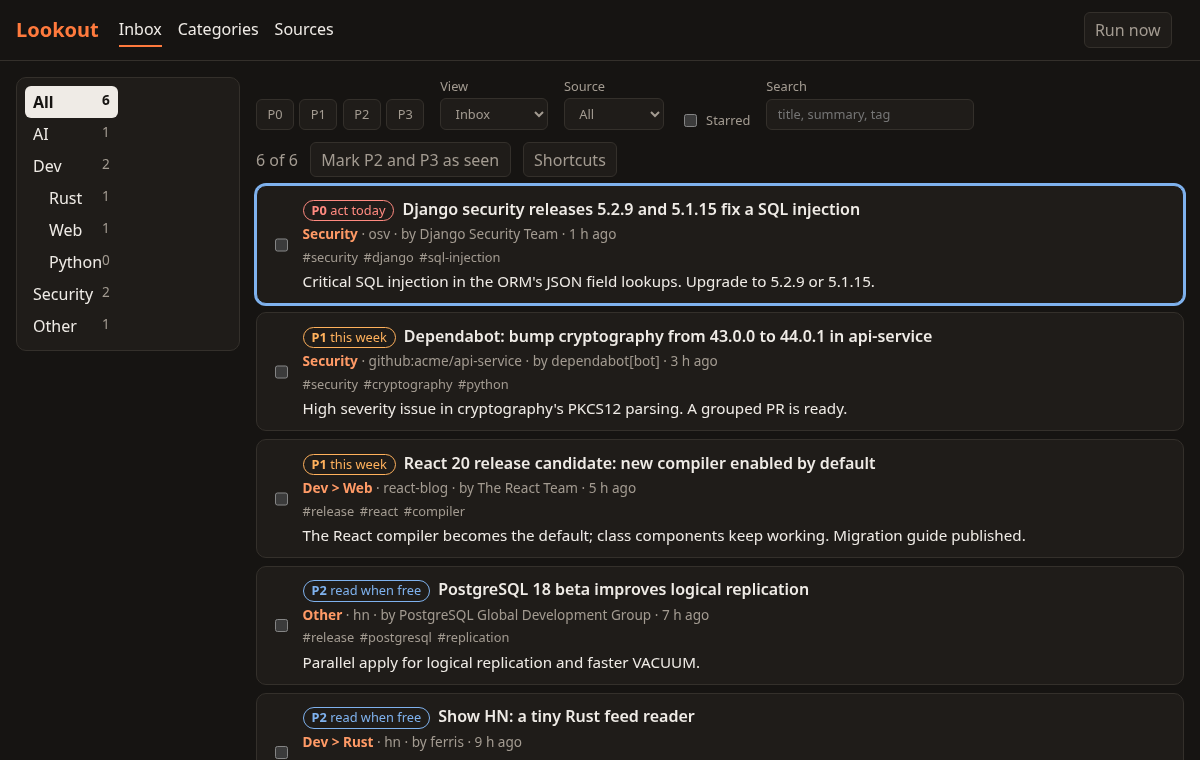
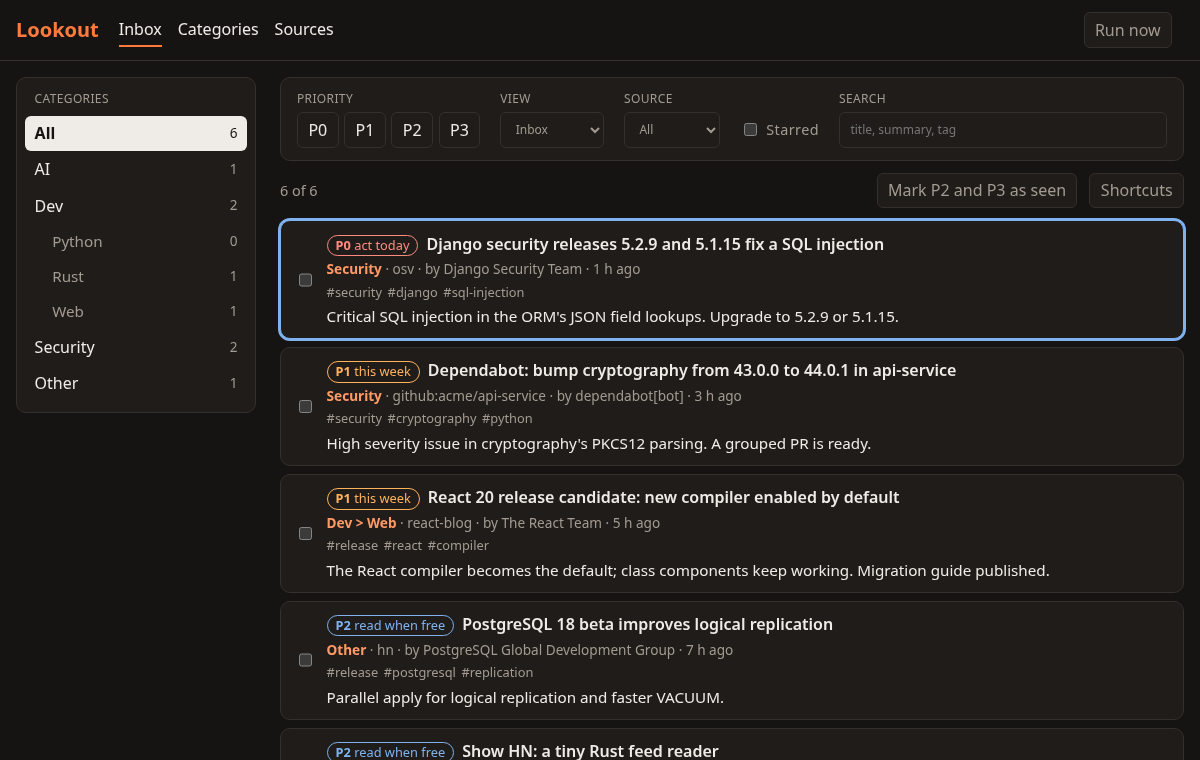
fix(categories): create missing parents and revamp the inbox layout
Moving into a category the dashboard showed but the server did not have failed with
"no such source or channel". The dashboard no longer invents rows; the server creates
the parents of any stored path when it opens, and the move refuses unknown parents.
The fake backend used by the UI tests now refuses unknown categories like the server,
and a test covers the refusal being shown.

The inbox layout is rebuilt: a sticky category sidebar with aligned counts and indented
children, one structured filter toolbar with captions and equal control heights,
actions aligned to the right, and navigation styles that no longer leak into the tree.

diff --git a/frontend/src/styles.css b/frontend/src/styles.css
@@ -55,23 +55,23 @@ h1 {
   font-size: 1.25rem;
   color: var(--accent);
 }
-nav {
+header nav {
   display: flex;
   gap: 1rem;
   flex: 1;
 }
-nav a {
+header nav a {
   color: var(--fg);
   text-decoration: none;
   padding: 0.25rem 0;
   border-bottom: 2px solid transparent;
 }
-nav a[aria-current="page"] {
+header nav a[aria-current="page"] {
   border-bottom-color: var(--accent);
 }
 main {
   padding: 1rem;
-  max-width: 1200px;
+  max-width: 1500px;
   margin: 0 auto;
 }
 button,
@@ -104,25 +104,55 @@ button:disabled {
 .filters {
   display: flex;
   flex-wrap: wrap;
-  gap: 0.75rem 1rem;
+  gap: 0.75rem 1.25rem;
   align-items: end;
+  background: var(--card);
+  border: 1px solid var(--line);
+  border-radius: 10px;
+  padding: 0.75rem 1rem;
   margin-bottom: 0.75rem;
 }
-.filters label {
+.filters label,
+.filters .field {
   display: flex;
   flex-direction: column;
-  font-size: 0.8rem;
+  gap: 0.25rem;
+}
+.filters .caption,
+.filters label {
+  font-size: 0.75rem;
+  letter-spacing: 0.03em;
+  text-transform: uppercase;
   color: var(--muted);
-  gap: 0.15rem;
+}
+.filters label:has(input[type="search"]) {
+  flex: 1 1 14rem;
+}
+.filters select,
+.filters input[type="search"],
+.filters .chip {
+  height: 2.25rem;
+  text-transform: none;
+  letter-spacing: normal;
+}
+.filters input[type="search"] {
+  width: 100%;
+  text-transform: none;
 }
 .filters label.check {
   flex-direction: row;
   align-items: center;
   gap: 0.4rem;
+  height: 2.25rem;
+  text-transform: none;
+  font-size: 0.9rem;
 }
 .chips {
   display: flex;
   gap: 0.35rem;
+}
+.chip {
+  min-width: 2.5rem;
 }
 .chip[aria-pressed="true"] {
   background: var(--fg);
@@ -136,7 +166,11 @@ button:disabled {
   gap: 0.75rem;
   align-items: center;
   color: var(--muted);
-  margin-bottom: 0.5rem;
+  margin-bottom: 0.75rem;
+}
+.toolbar span {
+  margin-right: auto;
+  font-size: 0.9rem;
 }
 .bulk {
   background: var(--card);
@@ -471,30 +505,52 @@ td button + button {
 }
 @media (min-width: 900px) {
   .with-tree {
-    grid-template-columns: 14rem minmax(0, 1fr);
+    grid-template-columns: 15rem minmax(0, 1fr);
+    gap: 1.5rem;
     align-items: start;
+  }
+  .tree {
+    position: sticky;
+    top: 1rem;
+    max-height: calc(100vh - 2rem);
+    overflow-y: auto;
   }
 }
 .tree {
   background: var(--card);
   border: 1px solid var(--line);
   border-radius: 10px;
-  padding: 0.5rem;
+  padding: 0.5rem 0.5rem 0.75rem;
+  display: block;
+}
+.tree-title {
+  margin: 0.25rem 0.6rem 0.5rem;
+  font-size: 0.75rem;
+  letter-spacing: 0.03em;
+  text-transform: uppercase;
+  color: var(--muted);
 }
 .tree ul {
   list-style: none;
   margin: 0;
   padding: 0;
+  display: grid;
+  gap: 1px;
 }
 .tree button {
-  display: flex;
-  justify-content: space-between;
+  display: grid;
+  grid-template-columns: minmax(0, 1fr) 2.5rem;
+  align-items: center;
   width: 100%;
   border: 0;
   background: none;
   text-align: left;
-  padding: 0.25rem 0.5rem;
+  padding: 0.35rem 0.6rem;
   border-radius: 6px;
+}
+.tree button[data-depth]:not([data-depth="0"]) {
+  font-size: 0.95rem;
+  color: var(--muted);
 }
 .tree button:hover {
   background: var(--bg);
@@ -505,13 +561,16 @@ td button + button {
   font-weight: 700;
 }
 .tree .count {
+  text-align: right;
   color: var(--muted);
   font-size: 0.85rem;
+  font-weight: 400;
+  font-variant-numeric: tabular-nums;
 }
 .tree button[aria-current="true"] .count {
   color: var(--bg);
 }
-.chips {
+.tags {
   display: flex;
   flex-wrap: wrap;
   gap: 0.35rem;

diff --git a/frontend/src/categories.ts b/frontend/src/categories.ts
@@ -18,22 +18,9 @@ export interface CategoryRow {
 const within = (path: string, ancestor: string) => path === ancestor || path.startsWith(ancestor + SEP);
 
 /** The categories as the rows of a tree, parents before their children, Other last, with totals that include children. */
-export function categoryRows(declared: Channel[]): CategoryRow[] {
-  // A path whose parent is missing (an older server stored it flat) still shows under its parent.
-  const known = new Set(declared.map((c) => c.name));
-  const implied: Channel[] = [];
-  for (const channel of declared) {
-    const parts = channel.name.split(SEP);
-    for (let n = 1; n < parts.length; n++) {
-      const path = parts.slice(0, n).join(SEP);
-      if (!known.has(path)) {
-        known.add(path);
-        implied.push({ name: path, description: "", items: 0, sources: [] });
-      }
-    }
-  }
-  const channels = [...declared, ...implied].sort((a, b) => Number(a.name > b.name) - Number(a.name < b.name));
-  const ordered = [...channels].sort((a, b) => Number(a.name === "Other") - Number(b.name === "Other"));
+export function categoryRows(channels: Channel[]): CategoryRow[] {
+  const byPath = (a: Channel, b: Channel) => Number(a.name > b.name) - Number(a.name < b.name);
+  const ordered = [...channels].sort(byPath).sort((a, b) => Number(a.name === "Other") - Number(b.name === "Other"));
   return ordered.map((channel) => {
     const parts = channel.name.split(SEP);
     return {

diff --git a/frontend/src/Manage.test.tsx b/frontend/src/Manage.test.tsx
@@ -350,13 +350,14 @@ describe("categories", () => {
     expect(calls(backend, "PATCH", "/api/channels/AI")[0]?.body).toEqual({ description: "Models and agents" });
   });
 
-  it("shows the parent of a path the server stored without one", async () => {
+  it("shows why a move was refused and keeps the tree as the server has it", async () => {
     const backend = world();
-    backend.taxonomy.channels = [{ name: "Dev > Web", description: "", items: 2, sources: [] }];
-    mount(backend, "/categories");
-    const dev = (await screen.findByRole("button", { name: "Edit Dev" })).closest("li") as HTMLElement;
-    expect(dev).toHaveTextContent("2 items");
-    expect(screen.getByRole("button", { name: "Edit Dev > Web" })).toBeInTheDocument();
+    const { user } = mount(backend, "/categories");
+    await user.click(await screen.findByRole("button", { name: "Move AI" }));
+    backend.failWith = { status: 404, detail: "no such source or channel: Dev" };
+    await user.click(within(screen.getByRole("group", { name: "Move AI" })).getByRole("button", { name: "Move here" }));
+    expect(await screen.findByRole("alert")).toHaveTextContent("no such source or channel: Dev");
+    expect(screen.getByRole("button", { name: "Edit AI" })).toBeInTheDocument();
   });
 
   it("offers no move when there is nowhere to go", async () => {

diff --git a/frontend/src/components/FilterBar.tsx b/frontend/src/components/FilterBar.tsx
@@ -31,20 +31,25 @@ export function FilterBar({ filters, sources, onChange }: Props) {
         e.preventDefault();
       }}
     >
-      <div className="chips" role="group" aria-label="Priority">
-        {PRIORITIES.map((priority) => (
-          <button
-            key={priority}
-            type="button"
-            className={`chip ${priority.toLowerCase()}`}
-            aria-pressed={filters.priorities.includes(priority)}
-            onClick={() => {
-              togglePriority(priority);
-            }}
-          >
-            {priority}
-          </button>
-        ))}
+      <div className="field">
+        <span className="caption" aria-hidden="true">
+          Priority
+        </span>
+        <div className="chips" role="group" aria-label="Priority">
+          {PRIORITIES.map((priority) => (
+            <button
+              key={priority}
+              type="button"
+              className={`chip ${priority.toLowerCase()}`}
+              aria-pressed={filters.priorities.includes(priority)}
+              onClick={() => {
+                togglePriority(priority);
+              }}
+            >
+              {priority}
+            </button>
+          ))}
+        </div>
       </div>
       <label>
         View

diff --git a/frontend/src/components/CategoryTree.tsx b/frontend/src/components/CategoryTree.tsx
@@ -14,6 +14,9 @@ export function CategoryTree({ channels, selected, onSelect }: Props) {
   const everything = rows.filter((r) => r.depth === 0).reduce((sum, r) => sum + r.total, 0);
   return (
     <nav className="tree" aria-label="Categories">
+      <p className="tree-title" aria-hidden="true">
+        Categories
+      </p>
       <ul>
         <li>
           <button
@@ -28,9 +31,11 @@ export function CategoryTree({ channels, selected, onSelect }: Props) {
           </button>
         </li>
         {rows.map((row) => (
-          <li key={row.path} style={{ paddingLeft: `${row.depth}rem` }}>
+          <li key={row.path}>
             <button
               type="button"
+              style={{ paddingLeft: `${0.6 + row.depth * 1.1}rem` }}
+              data-depth={row.depth}
               title={row.description || row.path}
               aria-current={selected === row.path ? "true" : undefined}
               onClick={() => {

diff --git a/frontend/src/test/fakeBackend.ts b/frontend/src/test/fakeBackend.ts
@@ -292,7 +292,11 @@ export class FakeBackend {
     return this.json(body, 201);
   }
 
+  /** Like the server: only categories that exist can be moved, or moved into. */
   private moveChannel(name: string, parent: string): Response {
+    const known = (path: string) => this.taxonomy.channels.some((c) => c.name === path);
+    const unknown = [name, parent].find((path) => path !== "" && !known(path));
+    if (unknown !== undefined) return this.json({ detail: `no such source or channel: ${unknown}` }, 404);
     const target = parent ? `${parent} > ${name.split(" > ").pop() as string}` : (name.split(" > ").pop() as string);
     for (const channel of this.taxonomy.channels) {
       if (channel.name === name || channel.name.startsWith(`${name} > `))

diff --git a/frontend/src/components/ItemList.tsx b/frontend/src/components/ItemList.tsx
@@ -58,7 +58,7 @@ export function ItemList({ items, focusedId, selected, now, onFocus, onOpen, onT
               {item.enrichment_failed && <> · the model could not read it</>}
             </p>
             {item.tags.length > 0 && (
-              <p className="chips" aria-label="Tags">
+              <p className="tags" aria-label="Tags">
                 {item.tags.slice(0, 4).map((tag) => (
                   <span key={tag}>#{tag}</span>
                 ))}

diff --git a/tests/test_categories.py b/tests/test_categories.py
@@ -183,6 +183,26 @@ def test_moving_a_category_takes_its_subcategories_its_items_and_its_sources_alo
         instance.services.close()
 
 
+def test_a_database_with_a_path_but_not_its_parent_gets_the_parent_when_opened(tmp_path: Path) -> None:
+    first = Api(Lookout(tmp_path, channels=[{"name": "Security"}]))
+    first.services.close()
+    raw = sqlite3.connect(tmp_path / "lookout.db")
+    raw.execute("INSERT INTO channel_defs (name, description, position) VALUES ('Dev > Web', '', 99)")
+    raw.commit()
+    raw.close()
+    reopened = Api(Lookout(tmp_path, channels=[{"name": "Security"}]))
+    try:
+        assert "Dev" in names(reopened)
+        assert move(reopened, "Security", "Dev").json()["name"] == "Dev > Security"
+    finally:
+        reopened.services.close()
+
+
+def test_moving_inside_a_parent_that_was_never_stored_is_refused_not_invented(api: Api) -> None:
+    assert move(api, OTHER, "Ghost").status_code in (404, 409)
+    assert "Ghost" not in names(api)
+
+
 def test_a_category_can_go_back_to_the_top_level(api: Api) -> None:
     api.client.post("/api/channels", json={"name": "Dev > Rust"})
     assert move(api, "Dev > Rust").json()["name"] == "Rust"

diff --git a/src/lookout/application/registry.py b/src/lookout/application/registry.py
@@ -106,6 +106,14 @@ class Registry:
             self._flags.set(SEEDED)
         if not any(c.name.lower() == OTHER.lower() for c in self._channels.all()):
             self._channels.save(Channel(OTHER))
+        self._create_missing_parents()
+
+    def _create_missing_parents(self) -> None:
+        """Every category has its parents stored, even in a database that kept a path without them."""
+        for channel in self._channels.all():
+            for parent in ancestors(channel.name):
+                if self._channel(parent) is None:
+                    self._channels.save(Channel(parent))
 
     # Sources
 

diff --git a/openspec/specs/categories/spec.md b/openspec/specs/categories/spec.md
@@ -37,8 +37,9 @@ NOT be deleted, and neither SHALL `Other`.
 
 The user SHALL be able to move a category, with its subcategories, inside another category or to the top level. The items
 filed in it and the sources that name it SHALL follow. A move onto an existing category, inside itself, of `Other`, or
-that makes a path deeper than four levels SHALL be refused and change nothing. A path whose parent is missing SHALL
-still be shown under that parent.
+that makes a path deeper than four levels SHALL be refused and change nothing. Every category SHALL have its parents
+stored: opening a database that holds a path without its parent SHALL create the parent, and the dashboard SHALL show
+only categories the server has.
 
 #### Scenario: Reorganising
 
